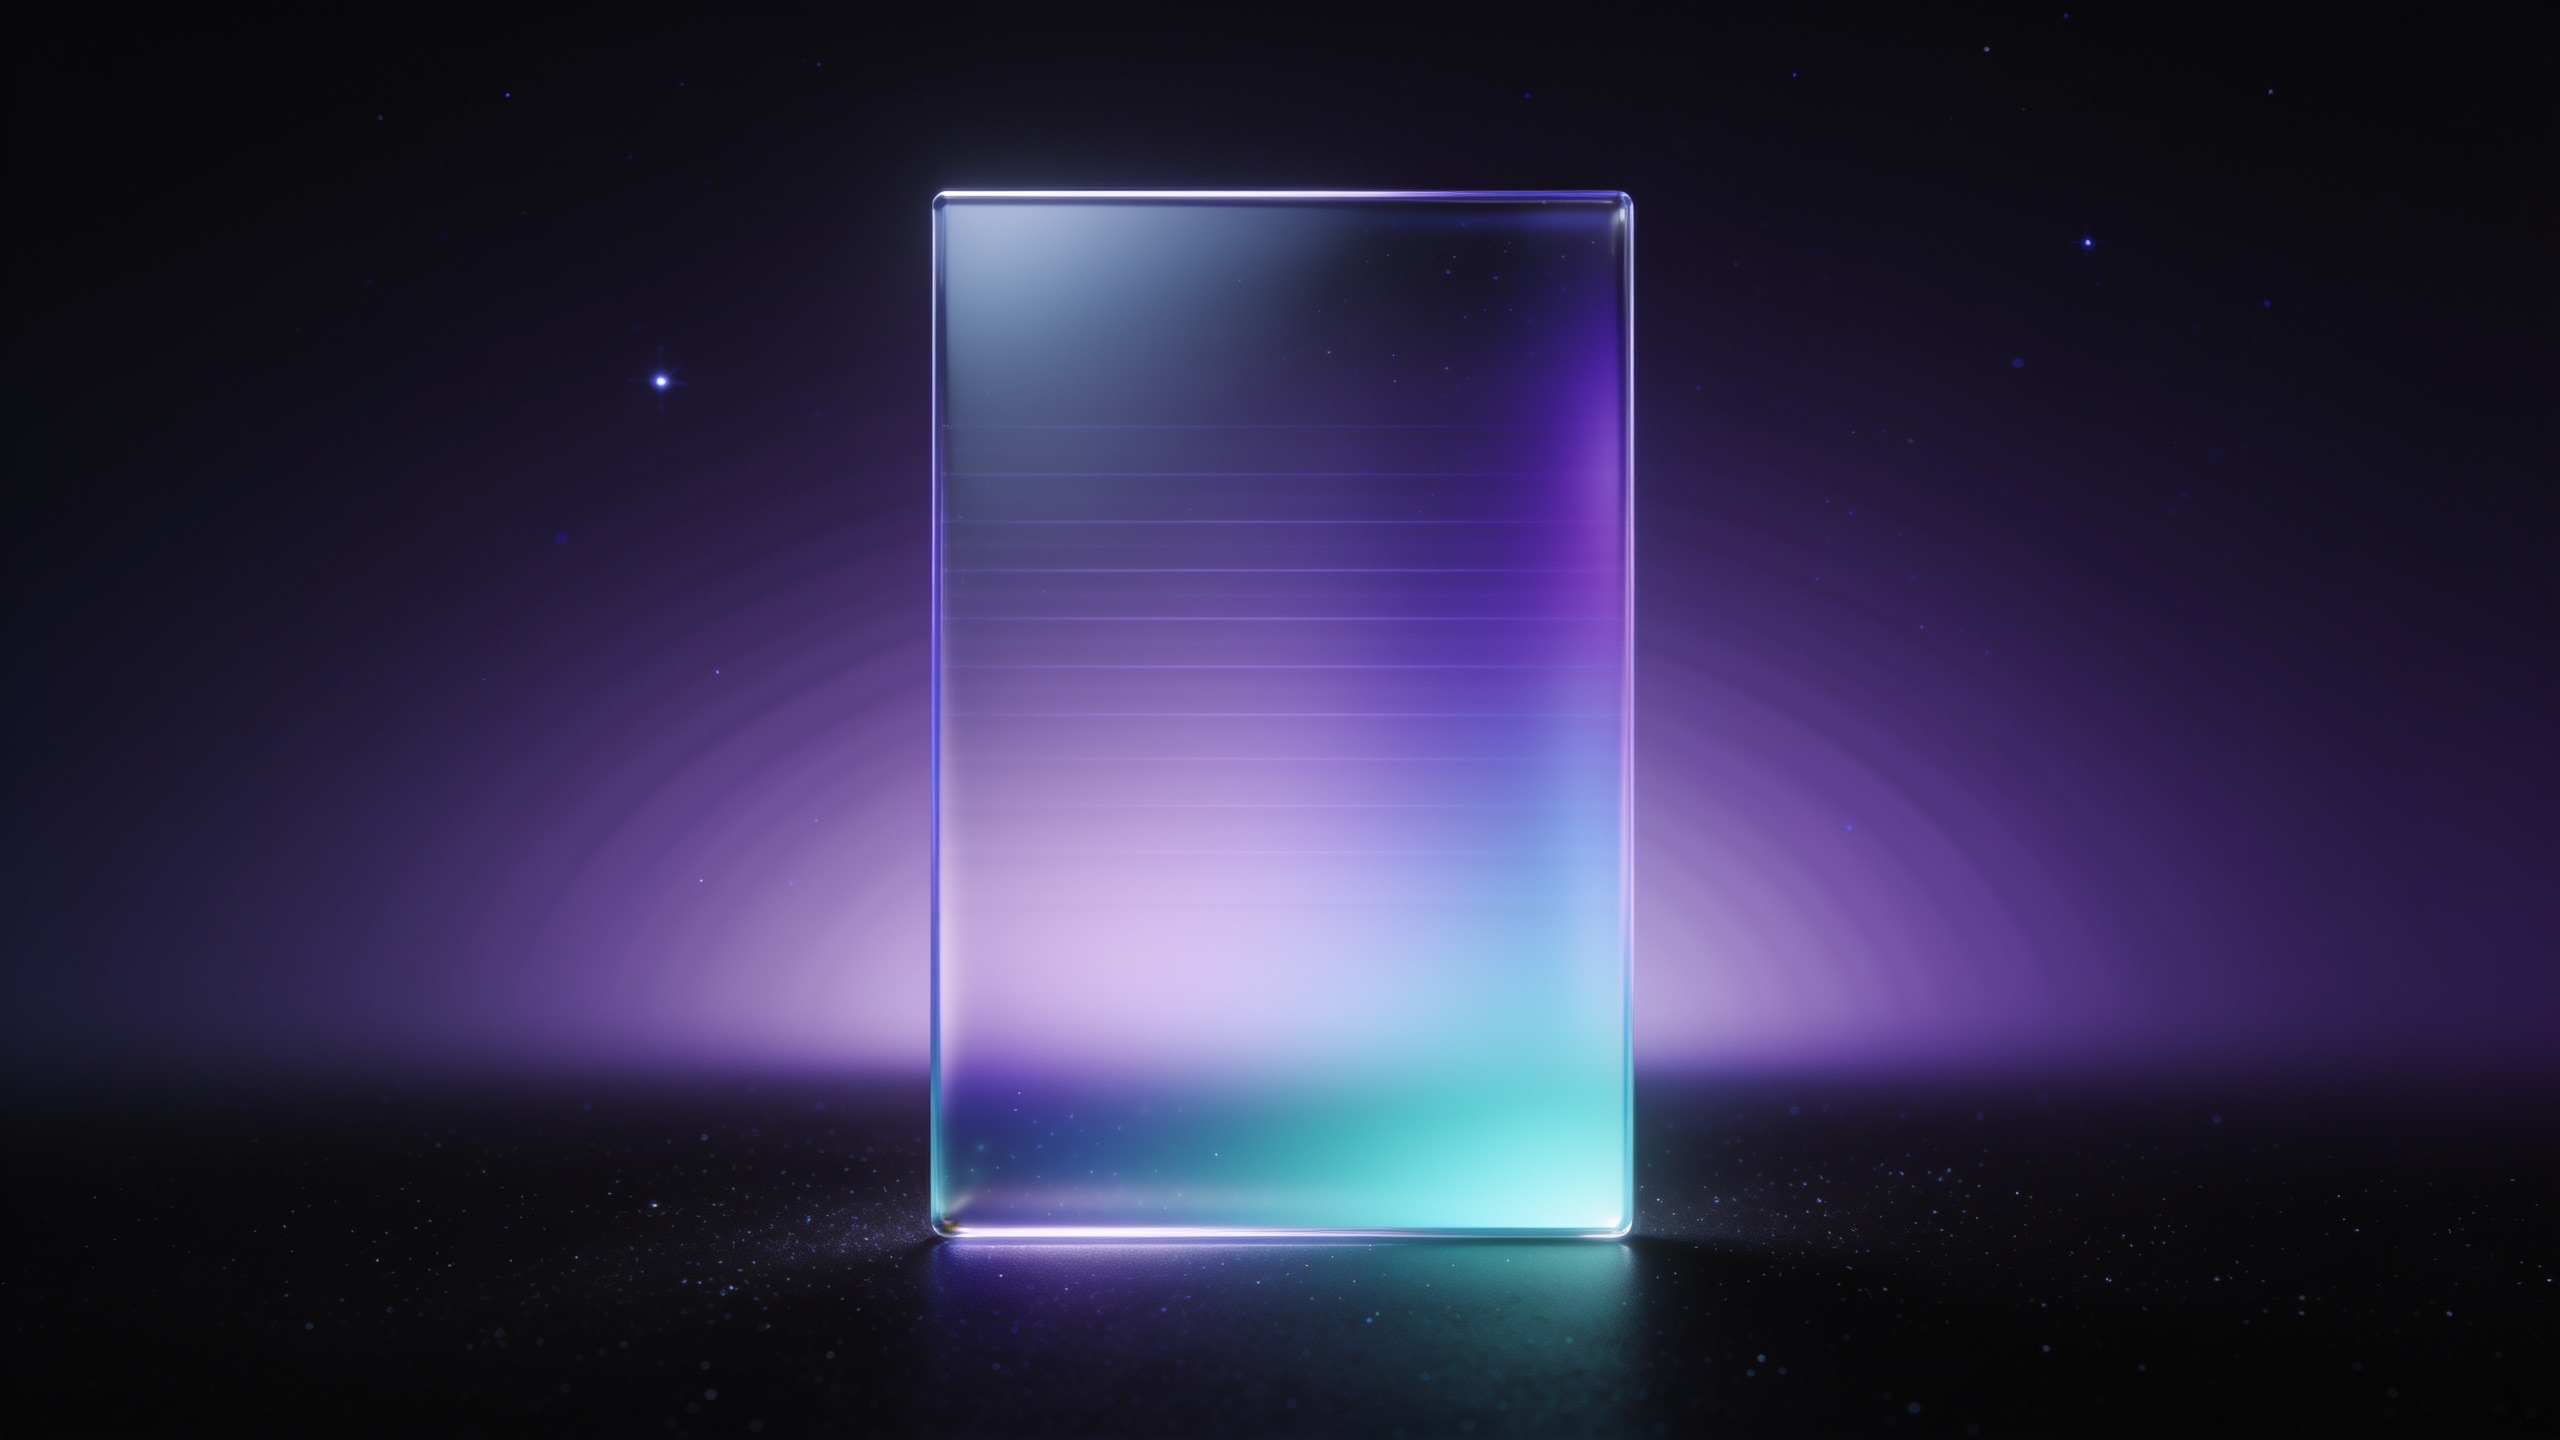
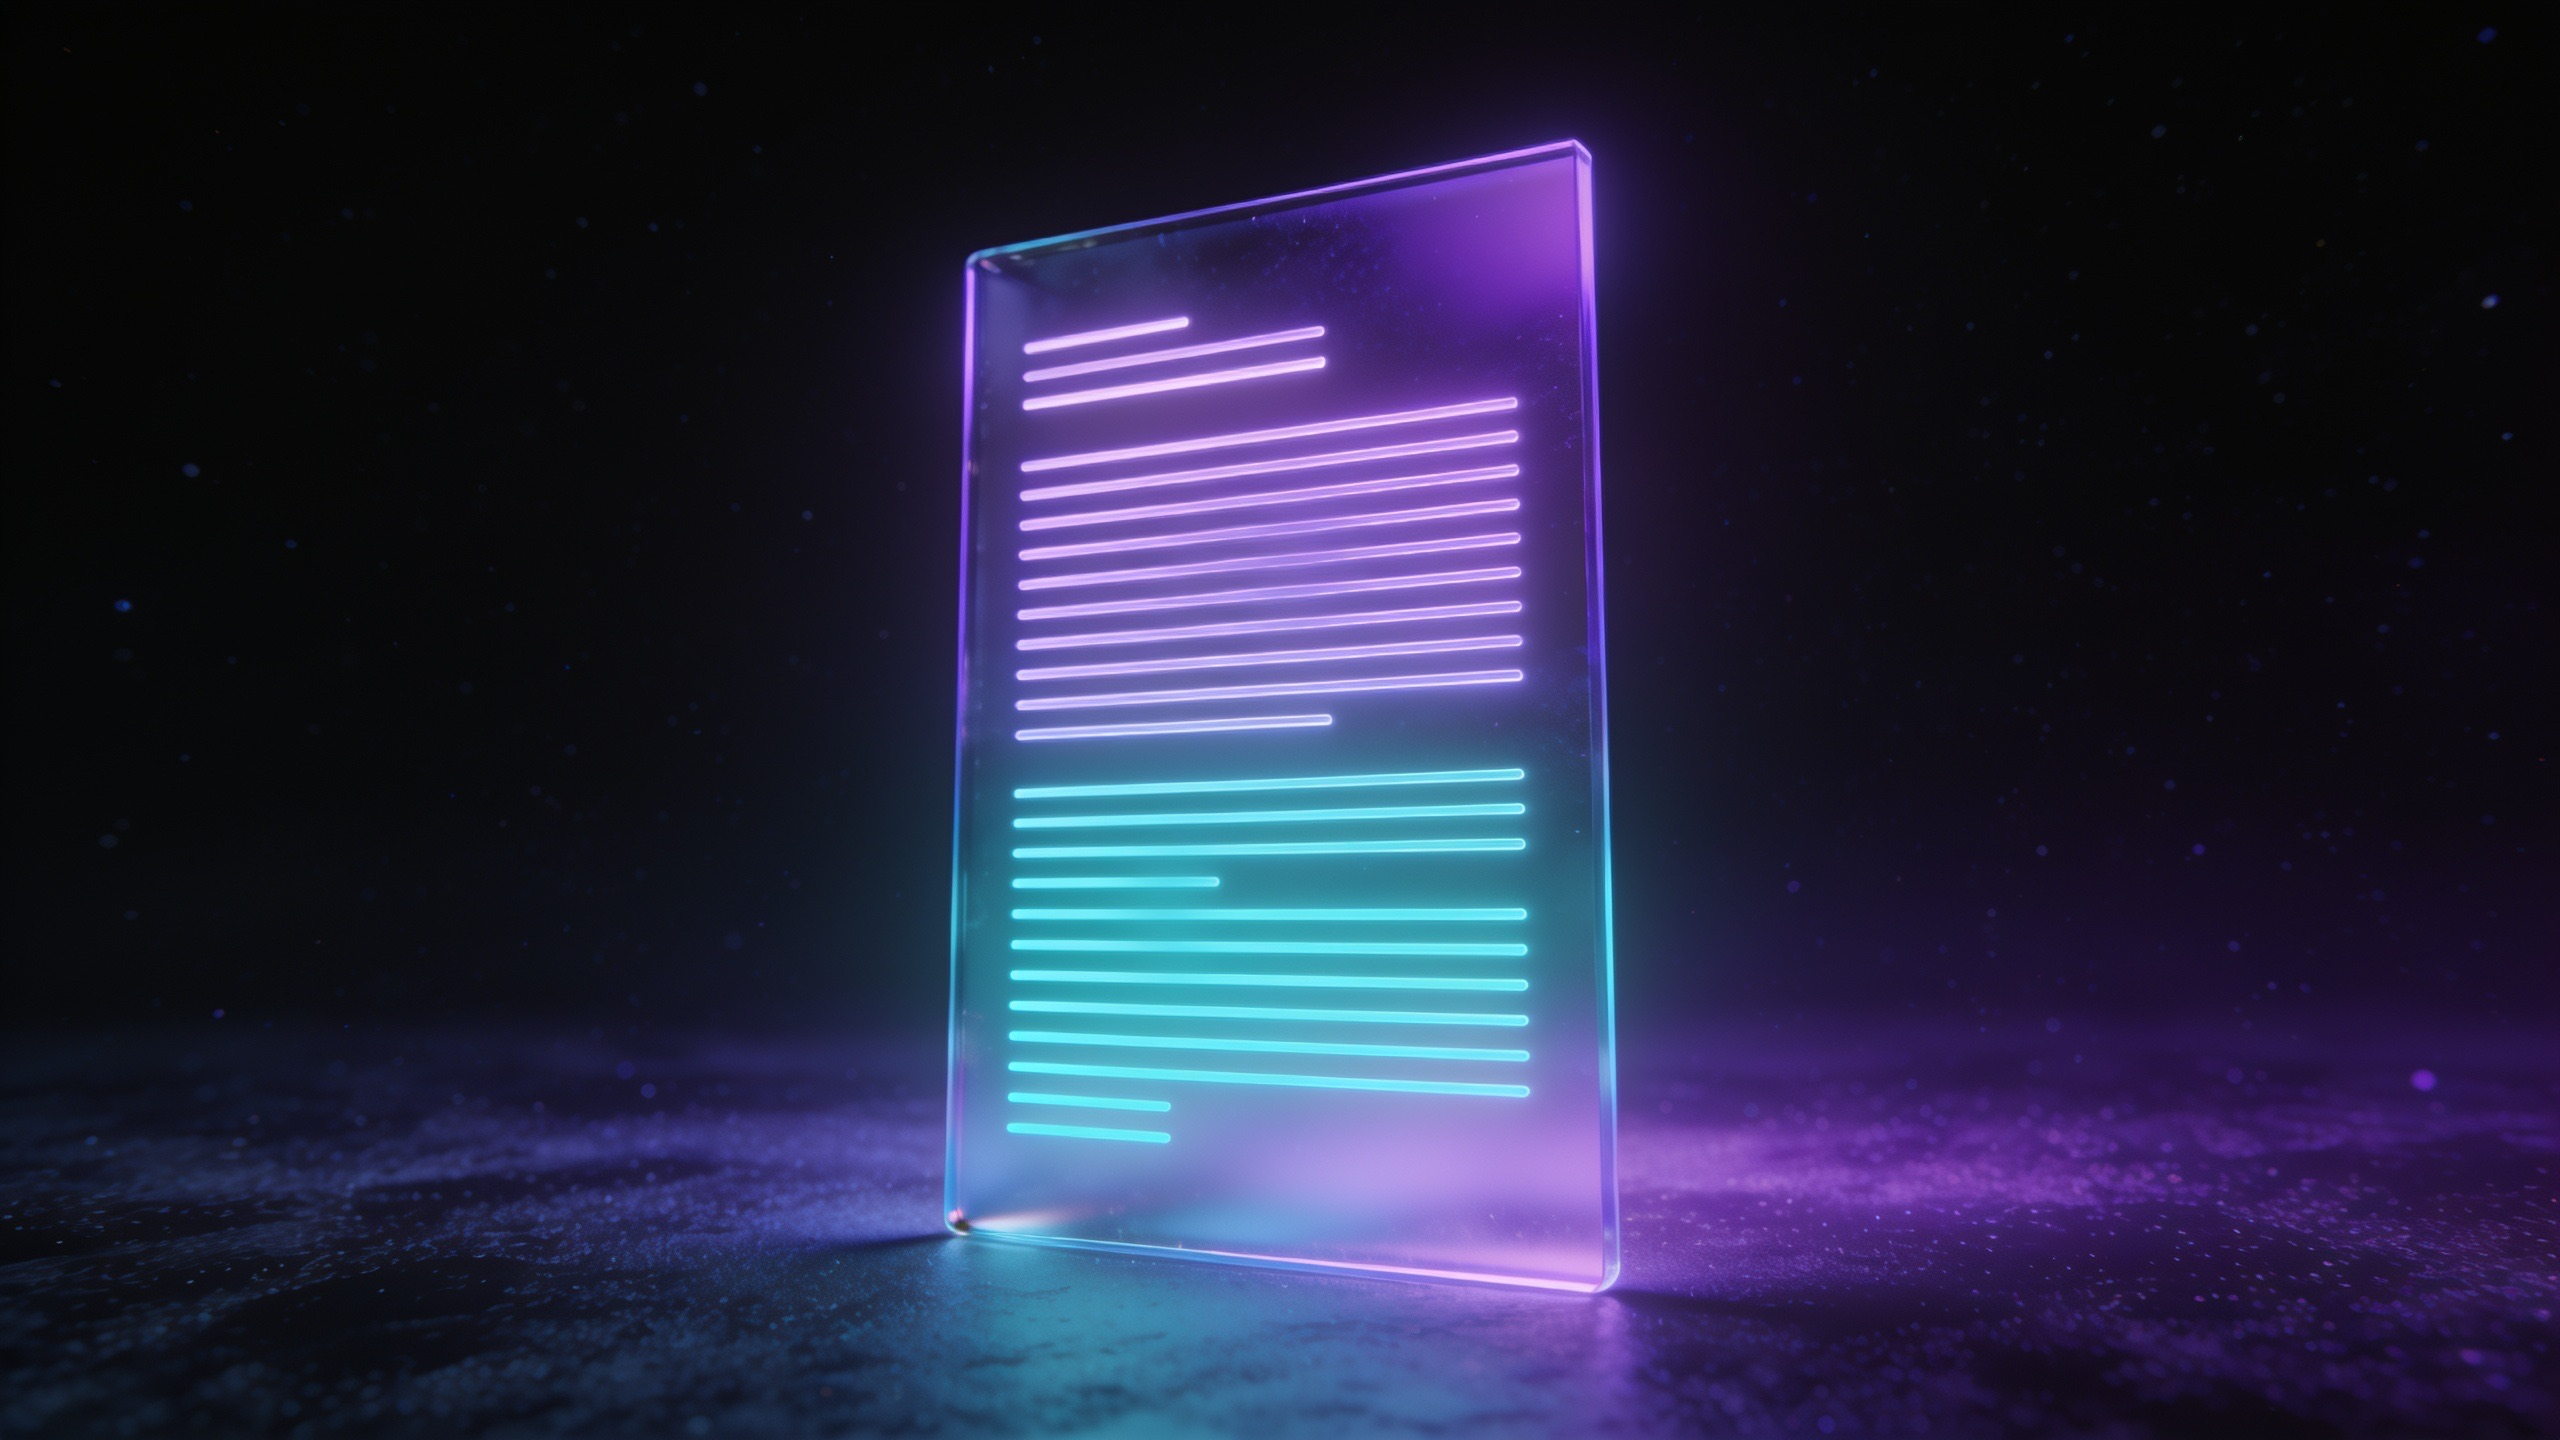
feat(onboarding): clearer step meaning — platform tiles, form/text images, drop reassurance block (#81)
Per Igor (images good but meaning unclear):
- Step 4 (Platforms): CSS composite of frosted-glass tiles with the platform
  brand monograms (In/in/ZR/GH/Le/A) on deep space — reads as 'where to apply'
  instantly (AI can't do real logos).
- Step 1 (Personal info) + Step 5 (Resume): regenerated with explicit form-fields
  / paragraphs-of-text-lines so they clearly read as a form and a resume.
- Step 3 (Safety): removed the redundant 'Automation that won't risk the account
  you've built' headline block (the shield header + the 3 points already carry it).

diff --git a/components/onboarding/StepHeader.tsx b/components/onboarding/StepHeader.tsx
@@ -1,9 +1,55 @@
-// Per-step header for the onboarding quiz: a context-specific brand glass/space
-// PHOTO (public/onboarding/step-N.jpg) filling the card edge-to-edge. No text —
-// the step's own title/form sits below; the image alone sets the mood. Full-bleed,
-// scaled a touch, with a faint bottom fade so it grounds into the white content.
+// Per-step header for the onboarding quiz. Most steps show a context-specific
+// brand glass/space PHOTO (public/onboarding/step-N.jpg) filling the card
+// edge-to-edge, no text. Step 4 (Platforms) is a CSS composite of glass tiles
+// carrying the real platform monograms in their brand colours — so "where should
+// we apply" reads instantly (AI can't render real logos reliably).
+
+const PLATFORMS = [
+  { m: "In", c: "#5B9BF0" }, // Indeed
+  { m: "in", c: "#3B82F6" }, // LinkedIn
+  { m: "ZR", c: "#34D399" }, // ZipRecruiter
+  { m: "GH", c: "#2FD6AC" }, // Greenhouse
+  { m: "Le", c: "#F2836B" }, // Lever
+  { m: "A", c: "#A78BFA" }, // Ashby
+];
+const OFFSET = [10, -8, 6, -10, 8, -4];
+const ROT = [-6, 4, -3, 5, -4, 6];
+
+function PlatformsHeader() {
+  return (
+    <div
+      className="relative w-full h-40 sm:h-48 overflow-hidden"
+      style={{ background: "radial-gradient(120% 110% at 50% 125%, #2a2158 0%, #14102e 52%, #0a0a14 100%)" }}
+    >
+      <div className="absolute inset-0 flex items-center justify-center gap-2.5 sm:gap-4 px-4">
+        {PLATFORMS.map((p, i) => (
+          <div
+            key={p.m}
+            className="relative flex items-center justify-center rounded-2xl shrink-0"
+            style={{
+              width: 58,
+              height: 58,
+              transform: `translateY(${OFFSET[i]}px) rotate(${ROT[i]}deg)`,
+              background: "rgba(255,255,255,0.07)",
+              backdropFilter: "blur(8px)",
+              WebkitBackdropFilter: "blur(8px)",
+              border: "1px solid rgba(255,255,255,0.16)",
+              boxShadow: `inset 0 1px 0 rgba(255,255,255,0.28), 0 12px 26px -12px ${p.c}, 0 0 22px -10px ${p.c}`,
+            }}
+          >
+            <span className="font-bold" style={{ color: p.c, fontSize: 20, textShadow: `0 0 14px ${p.c}88` }}>
+              {p.m}
+            </span>
+          </div>
+        ))}
+      </div>
+    </div>
+  );
+}
+
 export default function StepHeader({ step }: { step: number }) {
   if (step < 1 || step > 10) return null;
+  if (step === 4) return <PlatformsHeader />;
   return (
     <div className="relative w-full h-40 sm:h-48 overflow-hidden">
       {/* eslint-disable-next-line @next/next/no-img-element */}

diff --git a/components/onboarding/StepReassurance.tsx b/components/onboarding/StepReassurance.tsx
@@ -72,20 +72,6 @@ export default function StepReassurance({ onNext, onBack }: Props) {
       animate="show"
       className="space-y-8 text-center"
     >
-      <motion.div variants={item} className="space-y-3">
-        <div className="inline-flex items-center gap-2 px-3.5 py-1.5 rounded-full bg-accent-light text-accent text-xs font-semibold">
-          <span className="w-1.5 h-1.5 rounded-full bg-accent" />
-          What makes HireDrop different
-        </div>
-        <h2 className="text-2xl font-bold text-text leading-tight">
-          Automation that won&apos;t risk<br className="hidden sm:block" /> the account you&apos;ve built.
-        </h2>
-        <p className="text-sm text-text2 max-w-md mx-auto">
-          Other tools blast hundreds of applications from their servers and get accounts flagged.
-          HireDrop is built the safe way.
-        </p>
-      </motion.div>
-
       <motion.div variants={container} className="space-y-3 text-left">
         {points.map((p) => (
           <motion.div
